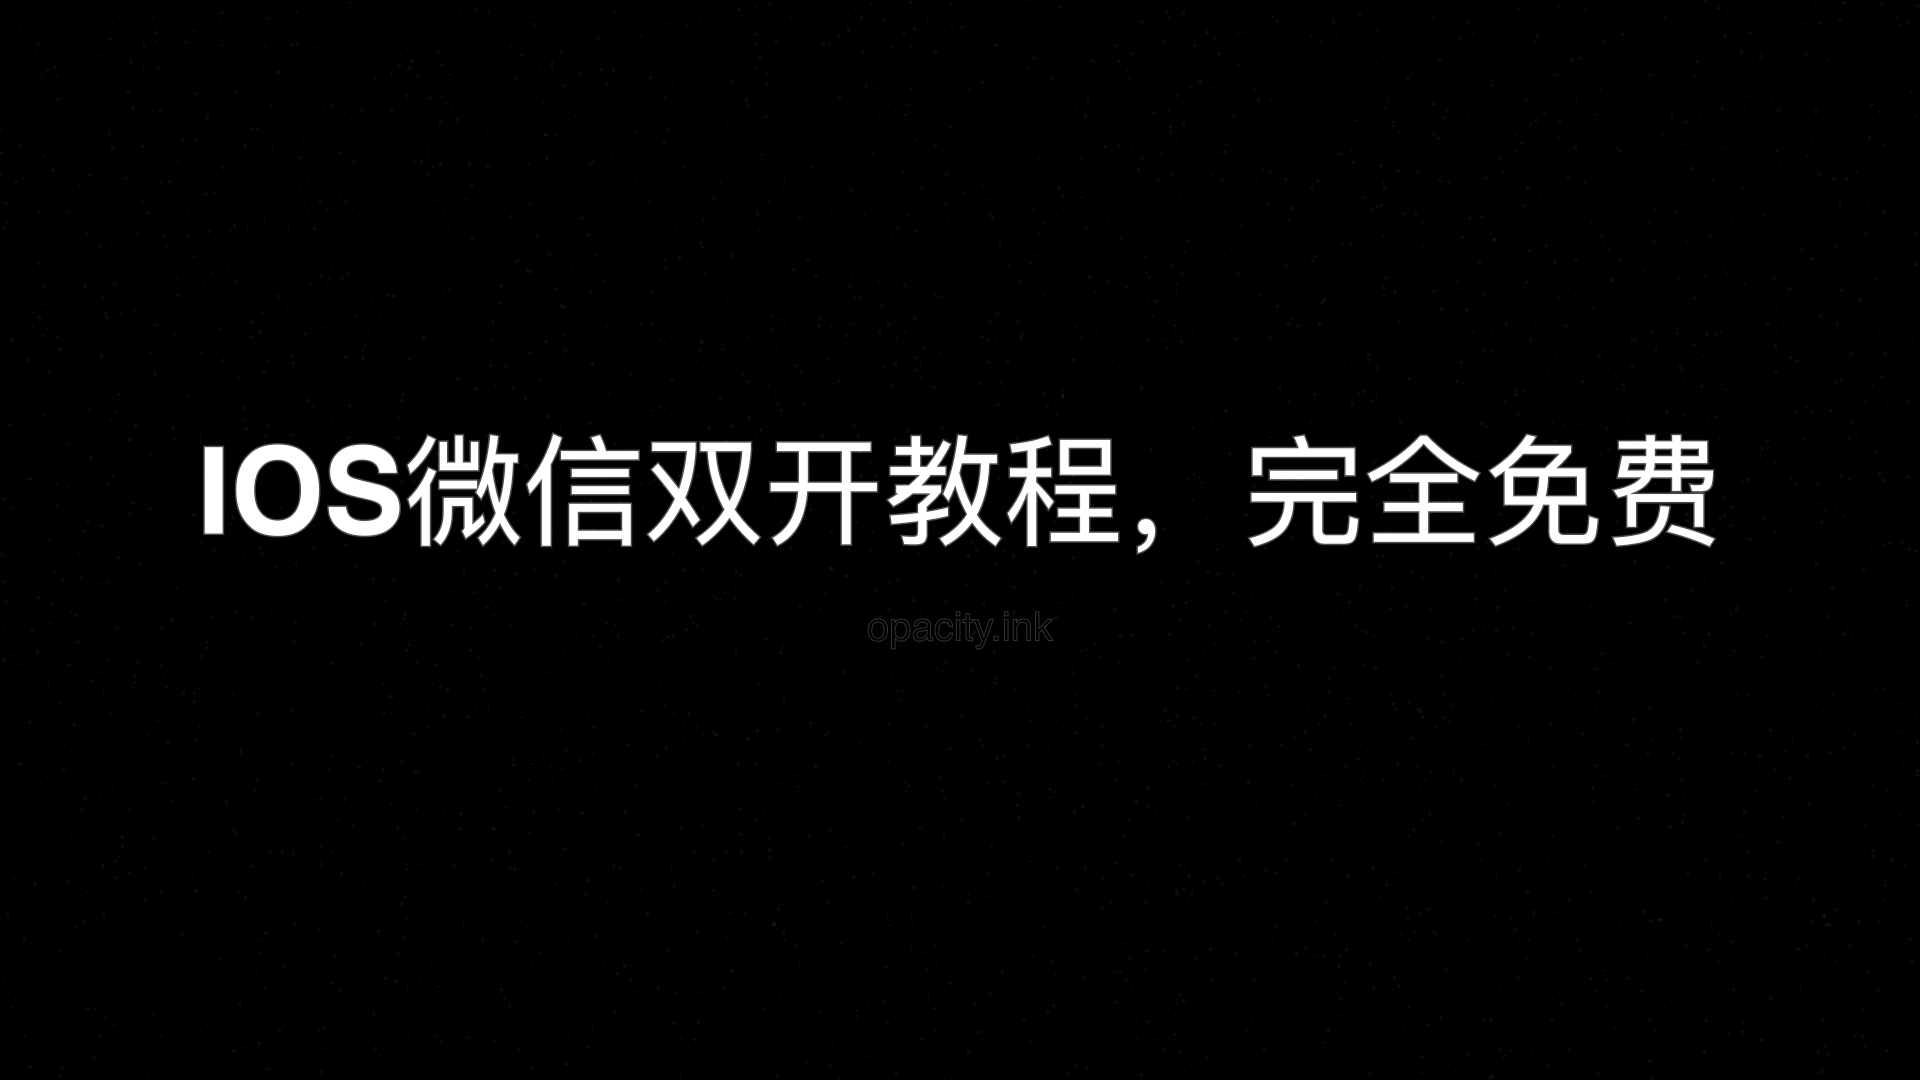
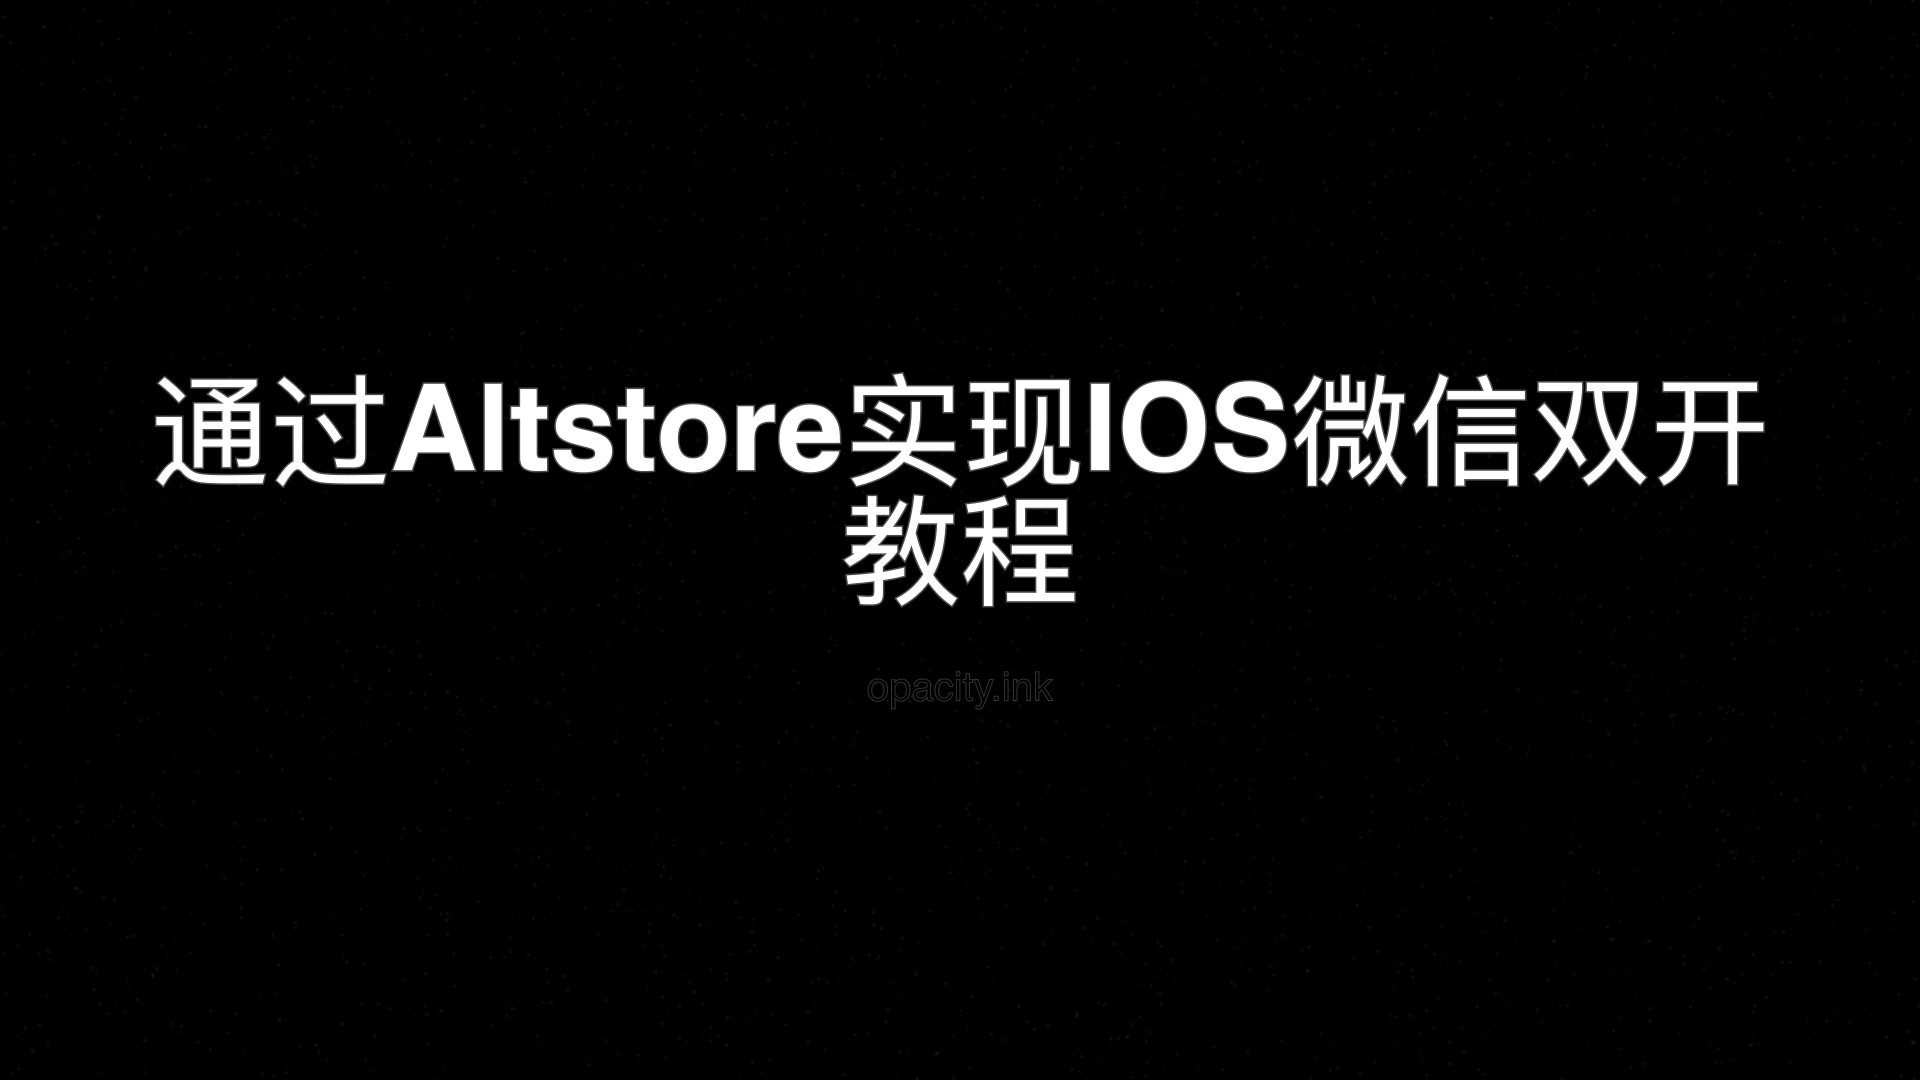
update

Changed region(s): [[0.0625, 0.3361, 0.9375, 0.6417]]

diff --git a/articles/cn/wechat.md b/articles/cn/wechat.md
@@ -1,6 +1,6 @@
 ---
-title: IOS微信双开教程，完全免费
-description: 通过 AltStore 自签名多开微信，苹果，IOS双开
+title: 通过Altstore实现IOS微信双开教程
+description: 通过 AltStore 自签名多开微信，苹果，IOS双开，完全免费。altserver下载，altstore下载
 date: 2025-01-10
 interface: /images/articles/wechat.png
 ---

diff --git a/articles/en/wechat.md b/articles/en/wechat.md
@@ -1,6 +1,6 @@
 ---
-title: IOS微信双开教程，完全免费
-description: 通过 AltStore 自签名多开微信，苹果，IOS双开
+title: 通过Altstore实现IOS微信双开教程
+description: 通过 AltStore 自签名多开微信，苹果，IOS双开，完全免费。altserver下载，altstore下载
 date: 2025-01-10
 interface: /images/articles/wechat.png
 ---

diff --git a/articles/wechat.md b/articles/wechat.md
@@ -1,6 +1,6 @@
 ---
-title: IOS微信双开教程，完全免费
-description: 通过 AltStore 自签名多开微信，苹果，IOS双开
+title: 通过Altstore实现IOS微信双开教程
+description: 通过 AltStore 自签名多开微信，苹果，IOS双开，完全免费。altserver下载，altstore下载
 date: 2025-01-10
 interface: /images/articles/wechat.png
 ---
